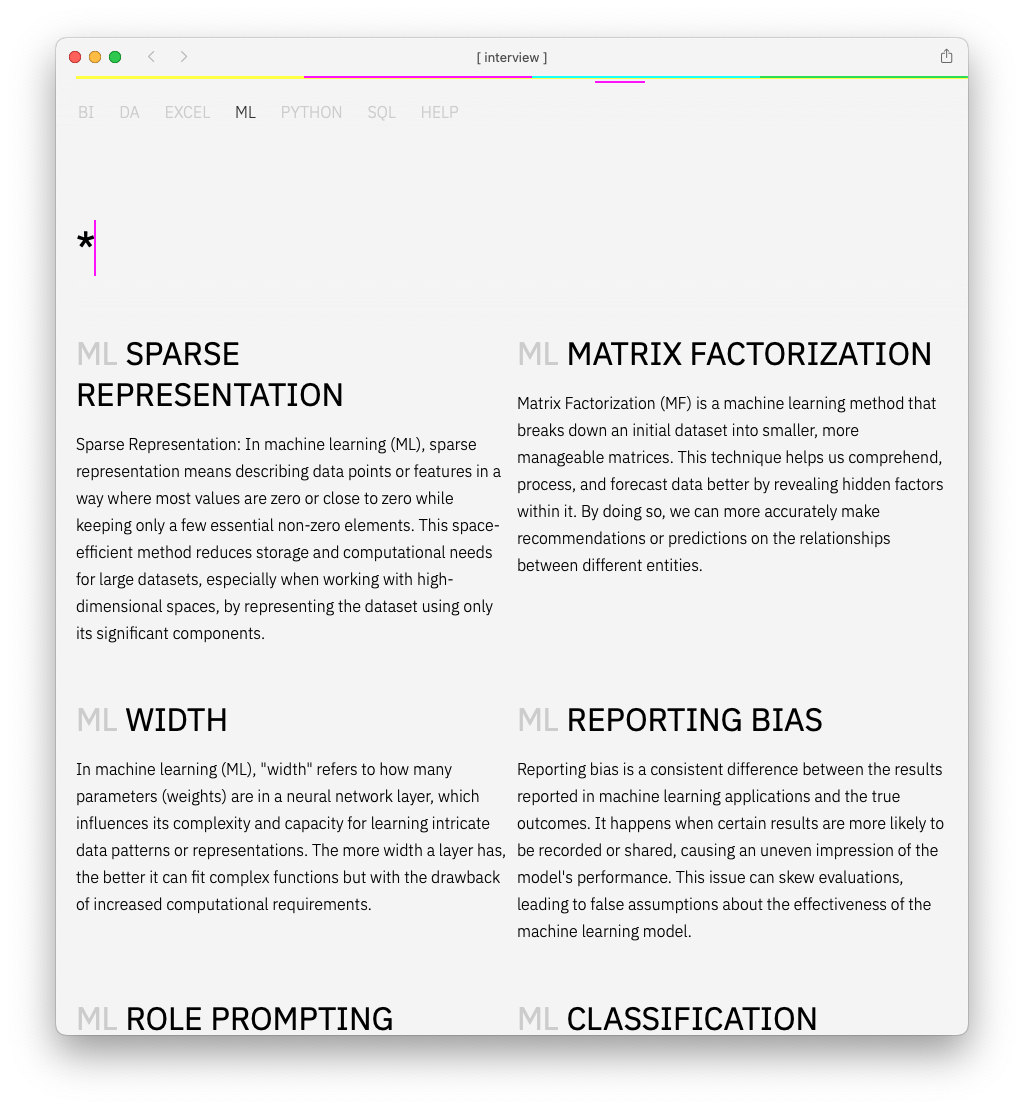
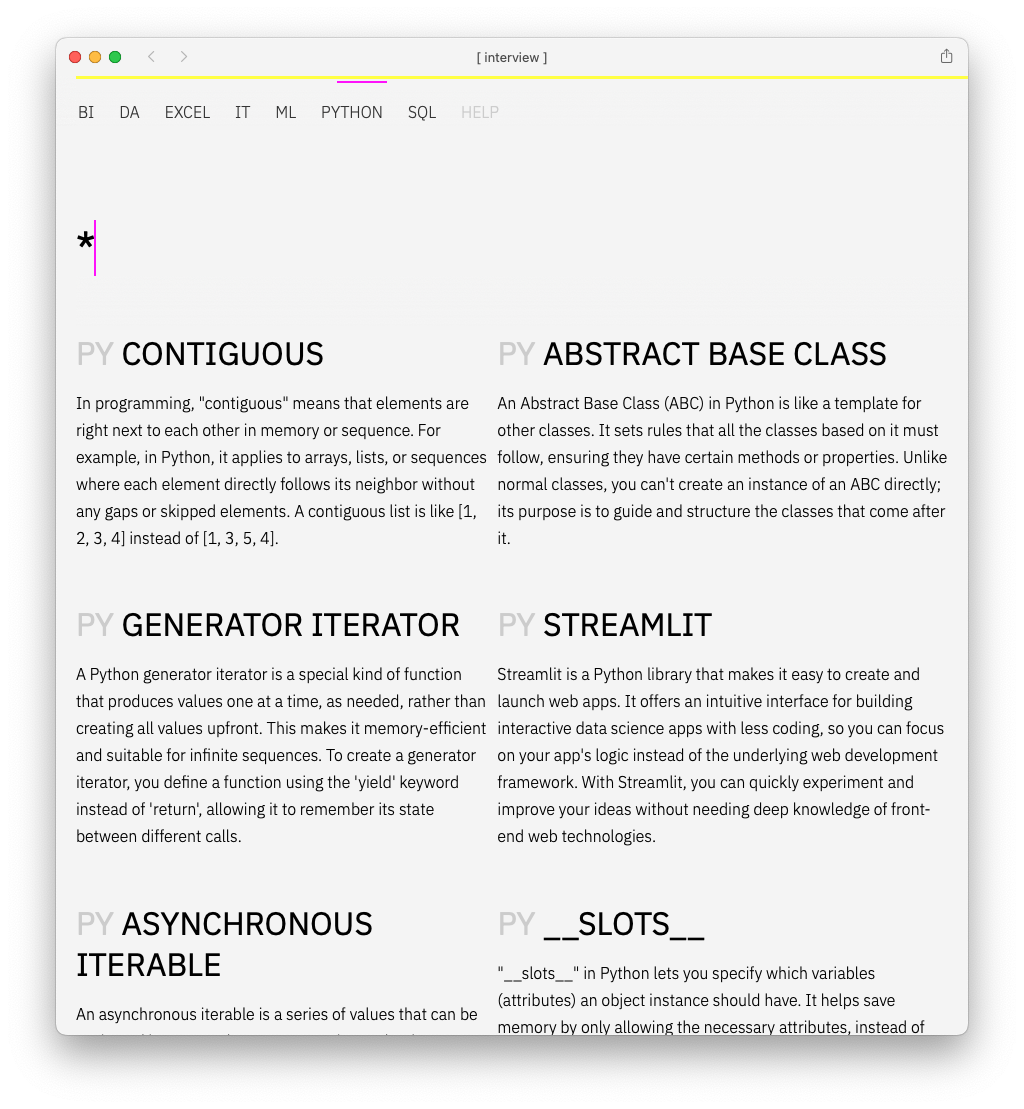
update README.md

diff --git a/README.md b/README.md
@@ -1,7 +1,7 @@
 
 # [ INTERVIEW ] - Real-time Knowledgebase
 
-**INTERVIEW**  is an innovative prototype of a real-time knowledgebase interface, created for quick and intuitive access to complex information resources. This dataset encompasses a glossary covering data analytics, engineering, and science, along with categories such as BI, DA, Excel, ML, Python, and SQL.
+**INTERVIEW**  is an innovative prototype of a real-time knowledgebase interface, created for quick and intuitive access to complex information resources. This dataset encompasses a glossary covering data analytics, engineering, and science, along with categories such as BI, DA, Excel, IT, ML, Python, and SQL.
 
 ## Beta preview
 
@@ -9,7 +9,8 @@
 
 ## Screenshots
 
-![screenshot](screenshot.png)
+
+![screenshot1](screenshot1.png)
 
 ![screenshot2](screenshot2.png)
 
@@ -27,9 +28,9 @@
 
 ## Dataset
 
-![screenshot4](screenshot4.png)
+![screenshot5](screenshot4.png)
 
-This dataset was generated using the [https://huggingface.co/TheBloke/dolphin-2.0-mistral-7B-GGUF"](Dolphin 2.0 Mistral 7B) model.
+This dataset was generated using the [https://huggingface.co/TheBloke/dolphin-2.0-mistral-7B-GGUF](Dolphin 2.0 Mistral 7B) model.
 
 Last updated: 2024-02-01
 
